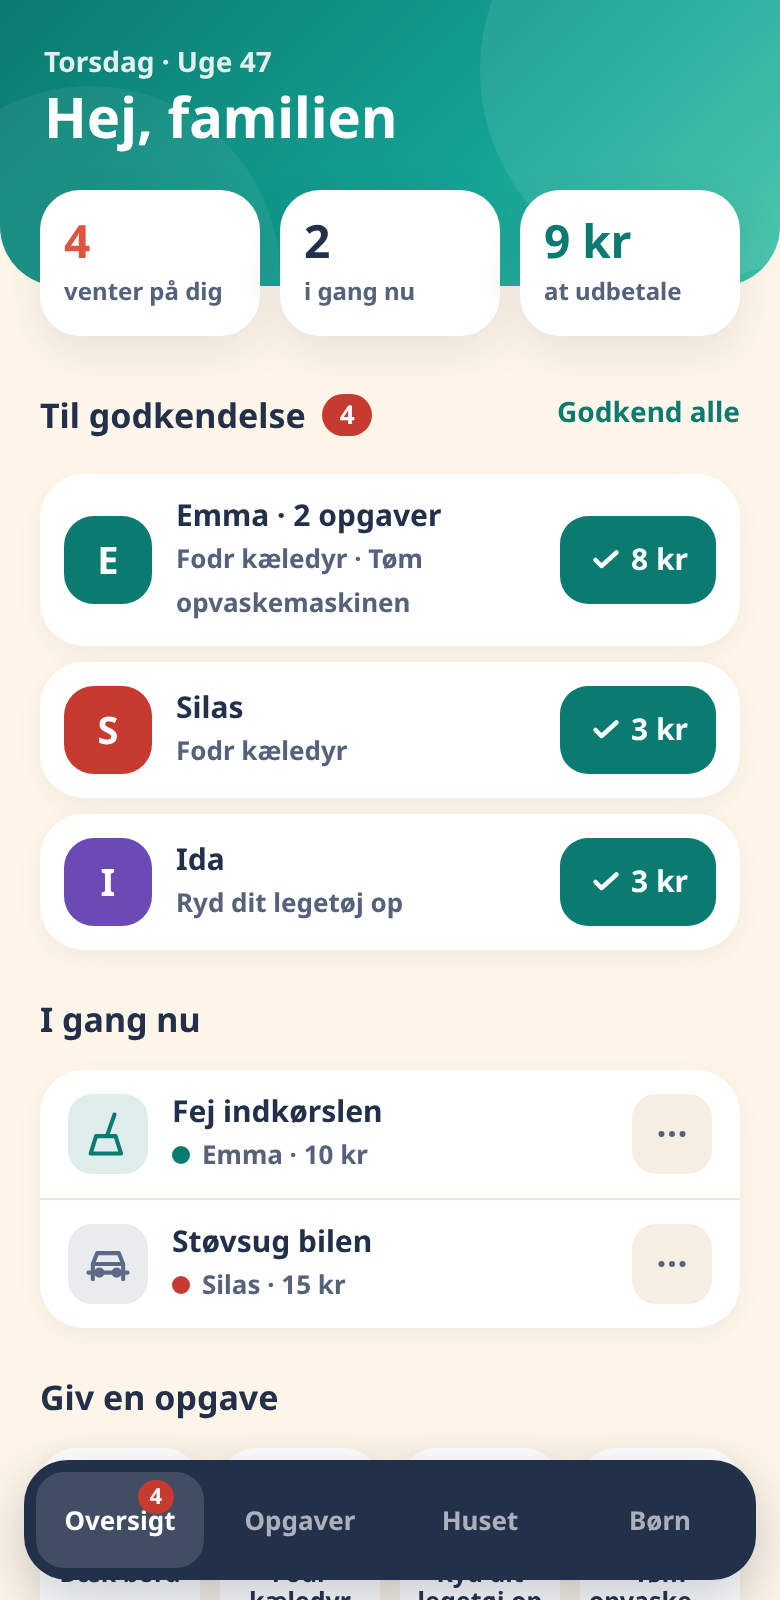
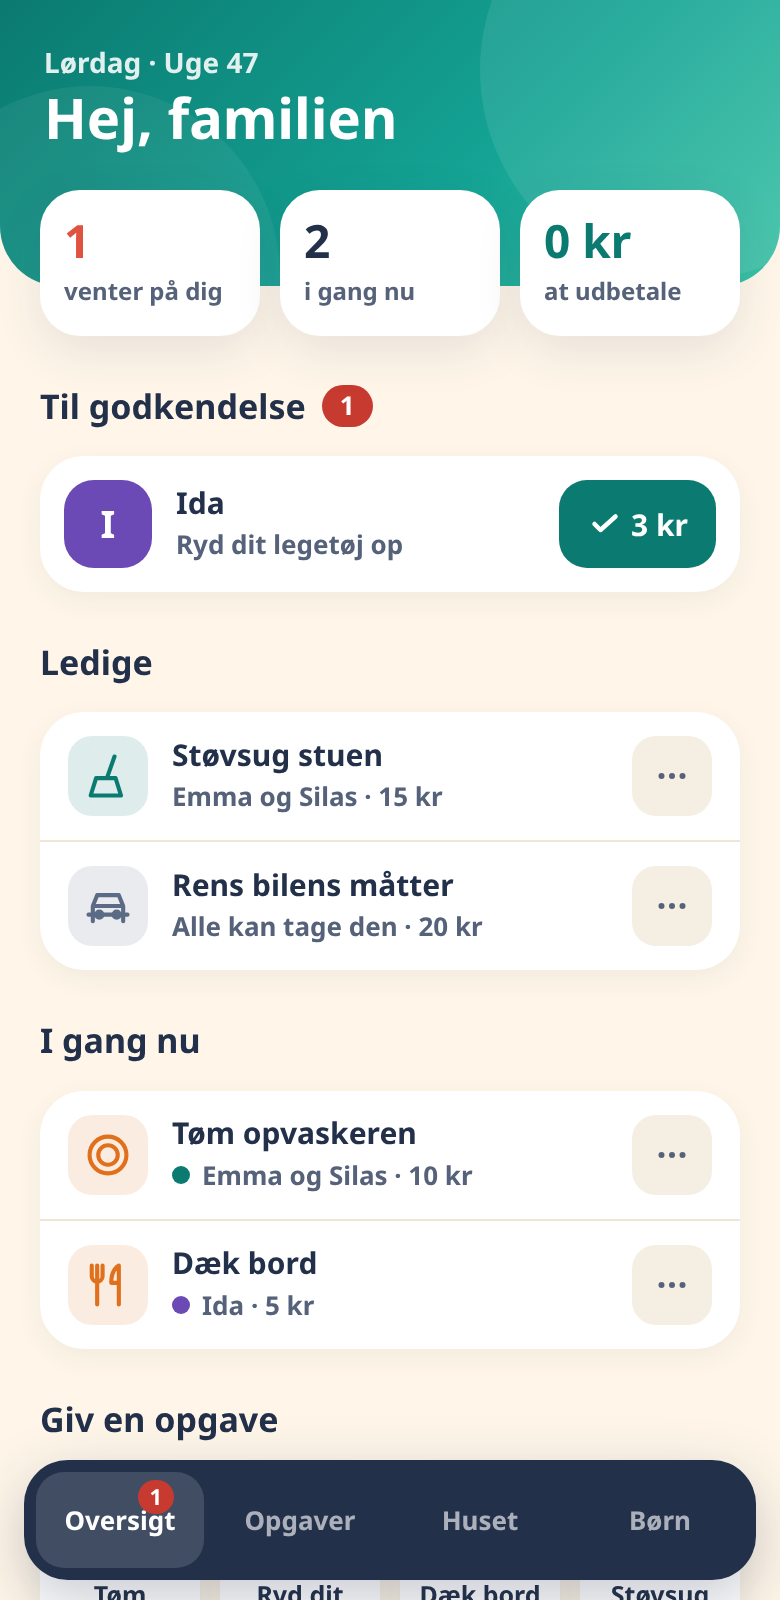
Docs: give to several kids, one-off chores, Free and Right now, one at a time, do it together

diff --git a/README.md b/README.md
@@ -33,7 +33,8 @@ Uden Nabu Casa og uden adresse udefra virker linkene som før: kun hjemme.
 
 - **Personligt link:** ingen login. Barnet kan scanne en QR-kode og lægge siden på startskærmen som en app. Siden viser selv en **Installer**-knap, når telefonen kan.
 - **Tre tryk:** åbn, tryk på opgaven, tryk "Færdig". Hver opgave har et tydeligt ikon, så de mindste kan se, hvad den går ud på.
-- **Ledige opgaver** står øverst i gult. Den første, der tager dem, får dem.
+- **Ledige opgaver** står øverst i gult. Den første, der tager dem, får dem. Barnet kan læse **Sådan gør du**, før det tager opgaven, og tager én ledig opgave ad gangen (kan slås fra).
+- **Lav den sammen:** et barn kan bede en søskende om hjælp til en opgave fra sin egen app. Siger søskenden ja, laver de den sammen og deler pengene lige, når den er godkendt.
 - **Rigtige kroner:** saldo, ugegraf, sparemål og ønsker. Et ønske kan blive til barnets sparemål med ét tryk.
 - **Belønninger:** børnene kan bruge kroner på ting, du selv vælger, fx skærmtid eller fredagsfilm.
 - **Spil og leg:** en fugl, der vokser fra æg til Pligtlegende, ugens boss som hele familien slår sammen, bonus for dage i træk og en overraskelsesopgave med dobbelt pris.
@@ -52,6 +53,10 @@ Uden Nabu Casa og uden adresse udefra virker linkene som før: kun hjemme.
   <img src="docs/barn_stor.png" alt="Barnets side, 13+ år" width="200">
 </p>
 
+<p align="center">
+  <img src="docs/sammen.png" alt="Ledige opgaver med Sådan gør du, og en opgave, der laves sammen" width="260">
+</p>
+
 ### Til forældrene
 
 <p align="center">
@@ -61,8 +66,9 @@ Uden Nabu Casa og uden adresse udefra virker linkene som før: kun hjemme.
 
 - **Oversigt på ét blik:** hvad der venter på dig, hvad der er i gang, og hvad der skal udbetales. "Pr. måned" og "Seneste" er foldet væk, til du åbner dem.
 - **Godkend pr. barn med ét tryk**, eller godkend alt på én gang. Tryk på barnet for at se og afvise de enkelte. Opgaver kan kræve et foto som bevis.
-- **I gang nu** viser maskineopgaver og ledige opgaver, et barn har taget. Har et andet barn lavet den, giver du den videre med **Giv til**, eller du tager den tilbage med **Fjern**.
-- **Giv en opgave med ét tryk:** hurtigknapper øverst på Oversigt med de mest brugte opgaver (eller dem, du har fastgjort). Hver knap viser **Alle** eller **Én**: en "Alle"-opgave (fx red din seng) sendes med ét tryk til hvert barn som deres egen; en "Én"-opgave (fx dæk bord) giver du til ét barn eller gør ledig for alle. Appen gætter ud fra navnet på 5 sprog, og du kan rette det på opgaven.
+- **Ledige** viser de opgaver, du har sendt ud, som ingen har taget endnu, og hvem der må tage dem. Du kan trække dem tilbage.
+- **I gang nu** viser opgaver, et barn har taget eller fået, også opgaver I laver sammen. Har et andet barn lavet den, giver du den videre med **Giv til**, eller du tager den tilbage med **Fjern**.
+- **Giv en opgave med ét tryk:** hurtigknapper øverst på Oversigt med de mest brugte opgaver (eller dem, du har fastgjort). Hver knap viser **Alle** eller **Én**: en "Alle"-opgave (fx red din seng) sendes med ét tryk til hvert barn som deres egen; en "Én"-opgave (fx dæk bord) giver du til ét barn, gør ledig for alle, eller vælger flere børn, hvor den første tager den. Med **+ Skriv en engangsopgave** sender du en opgave, der kun skal laves én gang, til hvert barn eller som først til mølle. Appen gætter ud fra navnet på 5 sprog, og du kan rette det på opgaven.
 - **Fast eller kun når du giver den:** en fast opgave kommer af sig selv, evt. kun på faste ugedage (fx søndag) og først fra et bestemt klokkeslæt (**Frigives kl.**). En opgave, der står til "Kun når jeg giver den", ser børnene aldrig af sig selv, men den kan gives med hurtigknapperne.
 - **Opsætning på få minutter:** en startpakke opretter opgaver, der passer til børnenes alder. Appen kan også foreslå opgaver ud fra husets rum og enheder.
 - **Fleksible opgaver:** pris, gentagelse, flere gange om dagen, kun til bestemte børn, sæsonopgaver (fx løv om efteråret) og låsning efter alder, der åbner af sig selv, når barnet har fødselsdag.

diff --git a/pligt-pilot/DOCS.md b/pligt-pilot/DOCS.md
@@ -30,7 +30,11 @@ Under **Hvornår?** i arket vælger du, hvornår børnene får opgaven:
 
 ## Giv en opgave hurtigt
 
-Øverst på **Oversigt** står **Giv en opgave** med op til 8 knapper: dem, du har fastgjort, først, og derefter dem, I bruger mest. Tryk på en, og vælg barnet eller alle (**Først til mølle**, eller **Alle får hver sin**). Så er den sendt for i dag.
+Øverst på **Oversigt** står **Giv en opgave** med op til 8 knapper: dem, du har fastgjort, først, og derefter dem, I bruger mest. Tryk på en, og vælg barnet eller alle (**Først til mølle**, eller **Alle får hver sin**). Med **Vælg flere – først til mølle** vælger du de børn, der må tage den, og den første af dem får den. Så er den sendt for i dag.
+
+**+ Skriv en engangsopgave** sender en opgave, der ikke findes i listen: skriv navn og pris, vælg børnene og **Hver sin** eller **Først til mølle**. Du kan skrive **Sådan gør du** (eller trykke **Lav med AI**). Når den er lavet, forsvinder den igen.
+
+Opgaver, du har sendt ud, står på **Oversigt**: under **Ledige**, til nogen tager dem, og derefter under **I gang nu**. En ledig opgave kan du trække tilbage.
 
 Tryk på **+ Tilføj** for at vælge, hvilke opgaver der altid skal stå som knap. Et flueben betyder fastgjort. Tryk igen for at fjerne det, og tryk **Færdig**. Du fjerner også en fastgjort knap ved at holde den inde et øjeblik, eller med **Fjern fra hurtigknapperne**, når du har trykket på den. Det samme valg findes som **Vis som hurtigknap** på opgaven.
 
@@ -40,6 +44,14 @@ Hver knap har et lille mærke:
 - **Én**: én af børnene gør det (fx *Dæk bord*, *Tøm opvaskeren*). Tryk og vælg barnet eller **Først til mølle**.
 
 Appen gætter ud fra opgavens navn. Er gættet forkert, så ret **Hvem?** i opgavens ark. Dit valg vinder, også hvis du senere ændrer navnet.
+
+## Én ledig opgave ad gangen
+
+Et barn kan kun tage én ledig opgave ad gangen. Knappen **Tag den** er grå, til barnets opgave er meldt færdig, så ét barn ikke tager dem alle. Barnet kan stadig læse **Sådan gør du**, før det tager en opgave. Slå det fra under **Indstillinger → Børnene kan kun tage én ledig opgave ad gangen**.
+
+## Lav den sammen
+
+Har et barn en opgave, kan det trykke **Få hjælp** og vælge en søskende. Søskenden får spørgsmålet i sin app og svarer **Ja, jeg hjælper** eller nej. Siger søskenden ja, står opgaven hos dem begge med "Sammen med …", og du ser det på **Oversigt**. Når opgaven er godkendt, deles pengene lige. En ulige krone går til den, der havde opgaven. Opgaven tæller i ugen for dem begge og kan ikke byttes, mens de laver den sammen.
 
 ## Årstid, hyppighed og vejr
 
@@ -72,7 +84,7 @@ En ledig opgave, som ingen har taget, forsvinder igen, når
 
 En sensor, der er "unavailable" eller "unknown", fjerner aldrig noget. Har et barn taget opgaven, bliver den liggende.
 
-Tryk **Ret** på en regel for at ændre opgavens navn og pris. En ledig opgave fra reglen får det nye med det samme. Oversigt viser under **Lige nu** maskineopgaverne, og om de er ledige, eller hvem der har taget dem.
+Tryk **Ret** på en regel for at ændre opgavens navn og pris. En ledig opgave fra reglen får det nye med det samme. Oversigt viser maskineopgaverne under **Ledige**, til et barn tager dem, og derefter under **I gang nu**.
 
 ## Forslag fra børnene
 
